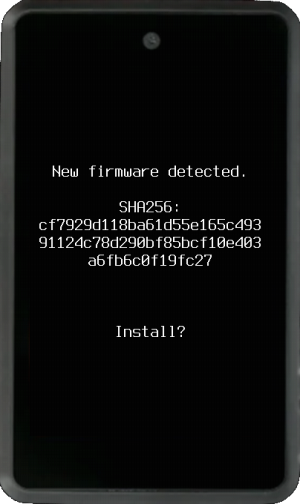
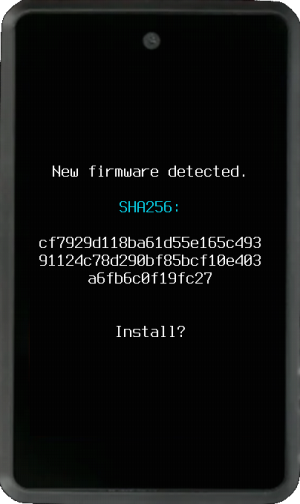
highlight SHA256 prefix on firmware upgrade

Changed region(s): [[0.12, 0.3869, 0.87, 0.5655]]

diff --git a/src/krux/firmware.py b/src/krux/firmware.py
@@ -194,9 +194,9 @@ def upgrade():
 
     inp = Input()
 
-    def status_text(text):
+    def status_text(text, highlight_prefix=""):
         display.clear()
-        display.draw_centered_text(text)
+        display.draw_centered_text(text, highlight_prefix=highlight_prefix)
 
     status_text(t("New firmware detected.") + "\n\n" + t("Verifying.."))
 
@@ -207,10 +207,11 @@ def upgrade():
     status_text(
         t("New firmware detected.")
         + "\n\n"
-        + "SHA256:\n"
+        + "SHA256:\n\n"
         + binascii.hexlify(firmware_hash).decode()
-        + "\n\n\n\n"
-        + t("Install?")
+        + "\n\n\n"
+        + t("Install?"),
+        ":",
     )
     inp.buttons_active = True
     if inp.wait_for_button() in (BUTTON_PAGE, BUTTON_PAGE_PREV):
@@ -302,7 +303,7 @@ def upgrade():
         return False
 
     status_text(
-        t("Upgrade complete.") + "\n" + t("Remove firmware files from SD Card?")
+        t("Upgrade complete.") + "\n\n\n" + t("Remove firmware files from SD Card?")
     )
     inp.buttons_active = True
     if not inp.wait_for_button() in (BUTTON_PAGE, BUTTON_PAGE_PREV):
